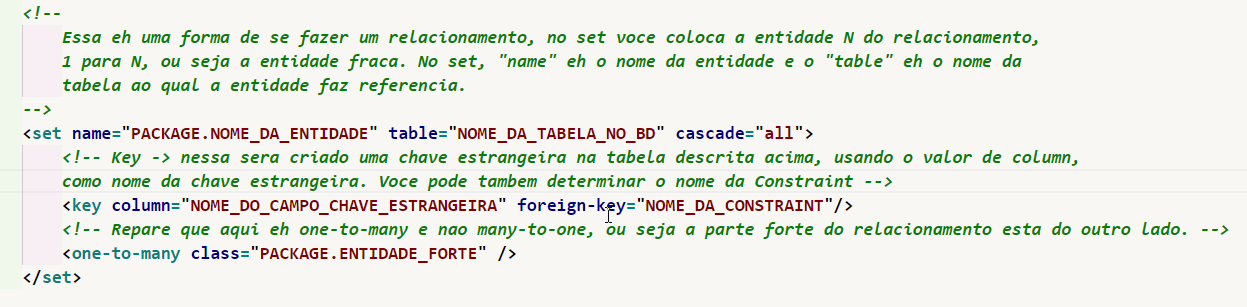
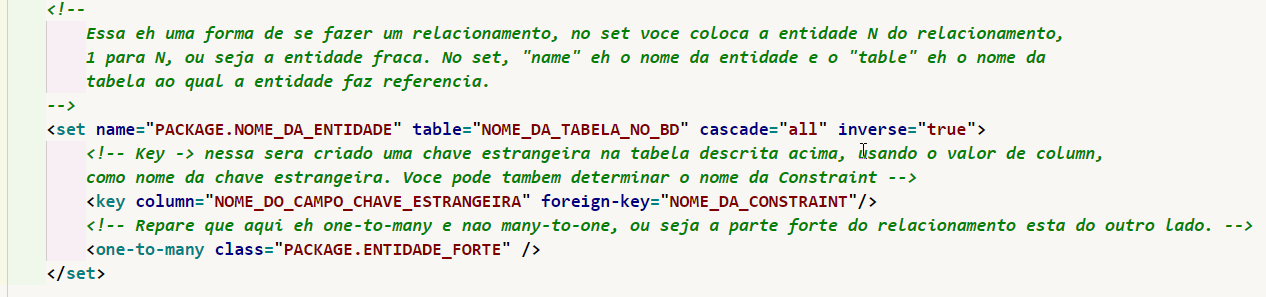
SET

diff --git a/Template/Hibernate/XML/readme.md b/Template/Hibernate/XML/readme.md
@@ -169,4 +169,5 @@ Com o fetch voce pode escolher se o hibernate vai usar mais select ou se ele vai
 
 <h3>SET</h3>
 <p>Abaixo temos um exemplo de como funciona o SET, o SET ele cria um container de relacionamento, o atributo key eh obrigatorio. </p>
+<p>O Atributo Inverse joga a responsabilidade da geracao da foreign key a tabela relacionada se estiver setado como true, ou ela pode ser gerado apartir do campo key se estiver setado como falso.</p>
 <p><img src="./.imgs/print9.png"/></p>
